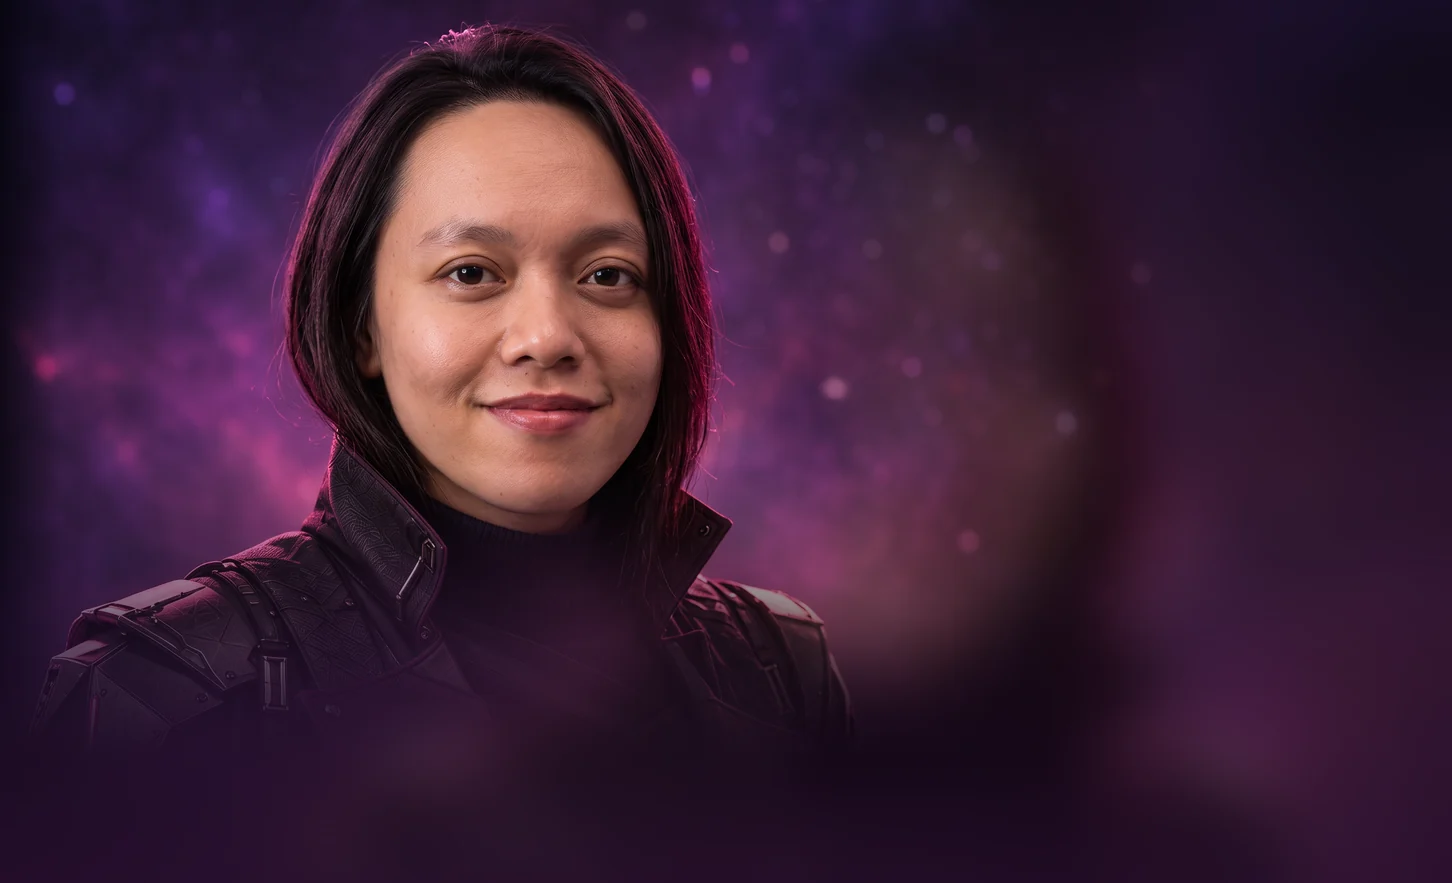
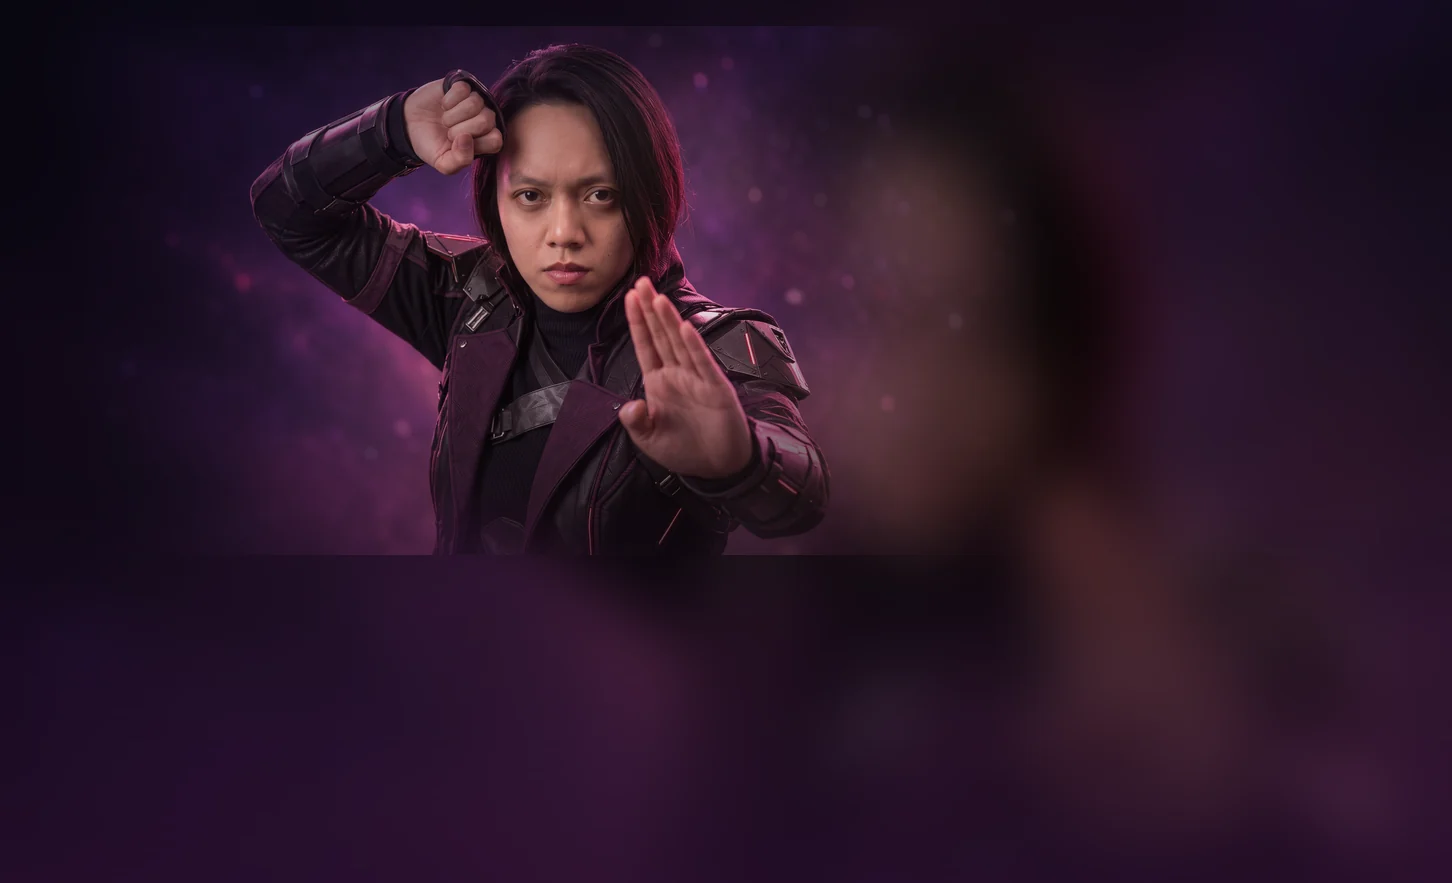
Partner Heroes: action-pose big art for cards 12-14
Claude-Session: https://claude.ai/code/session_01QpfYAiXFaQHcA12hC36bw4

diff --git a/index.html b/index.html
@@ -1542,7 +1542,7 @@
     $('phQuote').textContent=main?first.quote:'Different expertises, one ecosystem.';
     document.querySelectorAll('.hc').forEach(function(x){x.classList.toggle('is-on',Number(x.dataset.hero)===slot)});
     if(window.fcuHeroPage){var hc=document.querySelector('.hc[data-hero="'+slot+'"]');window.fcuHeroPage(Number(hc&&hc.dataset.pg||0));}
-    var art=document.querySelector('.ph-art'); if(art){art.style.backgroundImage="linear-gradient(90deg,rgba(8,4,18,.6) 0,rgba(8,4,18,0) 32%,rgba(8,4,18,0) 58%,rgba(8,4,18,.55) 100%),linear-gradient(180deg,rgba(8,4,18,0) 55%,rgba(8,4,18,.7) 100%),url('heroes/big/p"+String(slot+1).padStart(2,'0')+".webp?v=5')";art.setAttribute('aria-label',name);}
+    var art=document.querySelector('.ph-art'); if(art){art.style.backgroundImage="linear-gradient(90deg,rgba(8,4,18,.6) 0,rgba(8,4,18,0) 32%,rgba(8,4,18,0) 58%,rgba(8,4,18,.55) 100%),linear-gradient(180deg,rgba(8,4,18,0) 55%,rgba(8,4,18,.7) 100%),url('heroes/big/p"+String(slot+1).padStart(2,'0')+".webp?v=6')";art.setAttribute('aria-label',name);}
     $('phSignName').textContent=name; $('phSignRole').textContent=role;
   };
   document.addEventListener('click',function(e){
